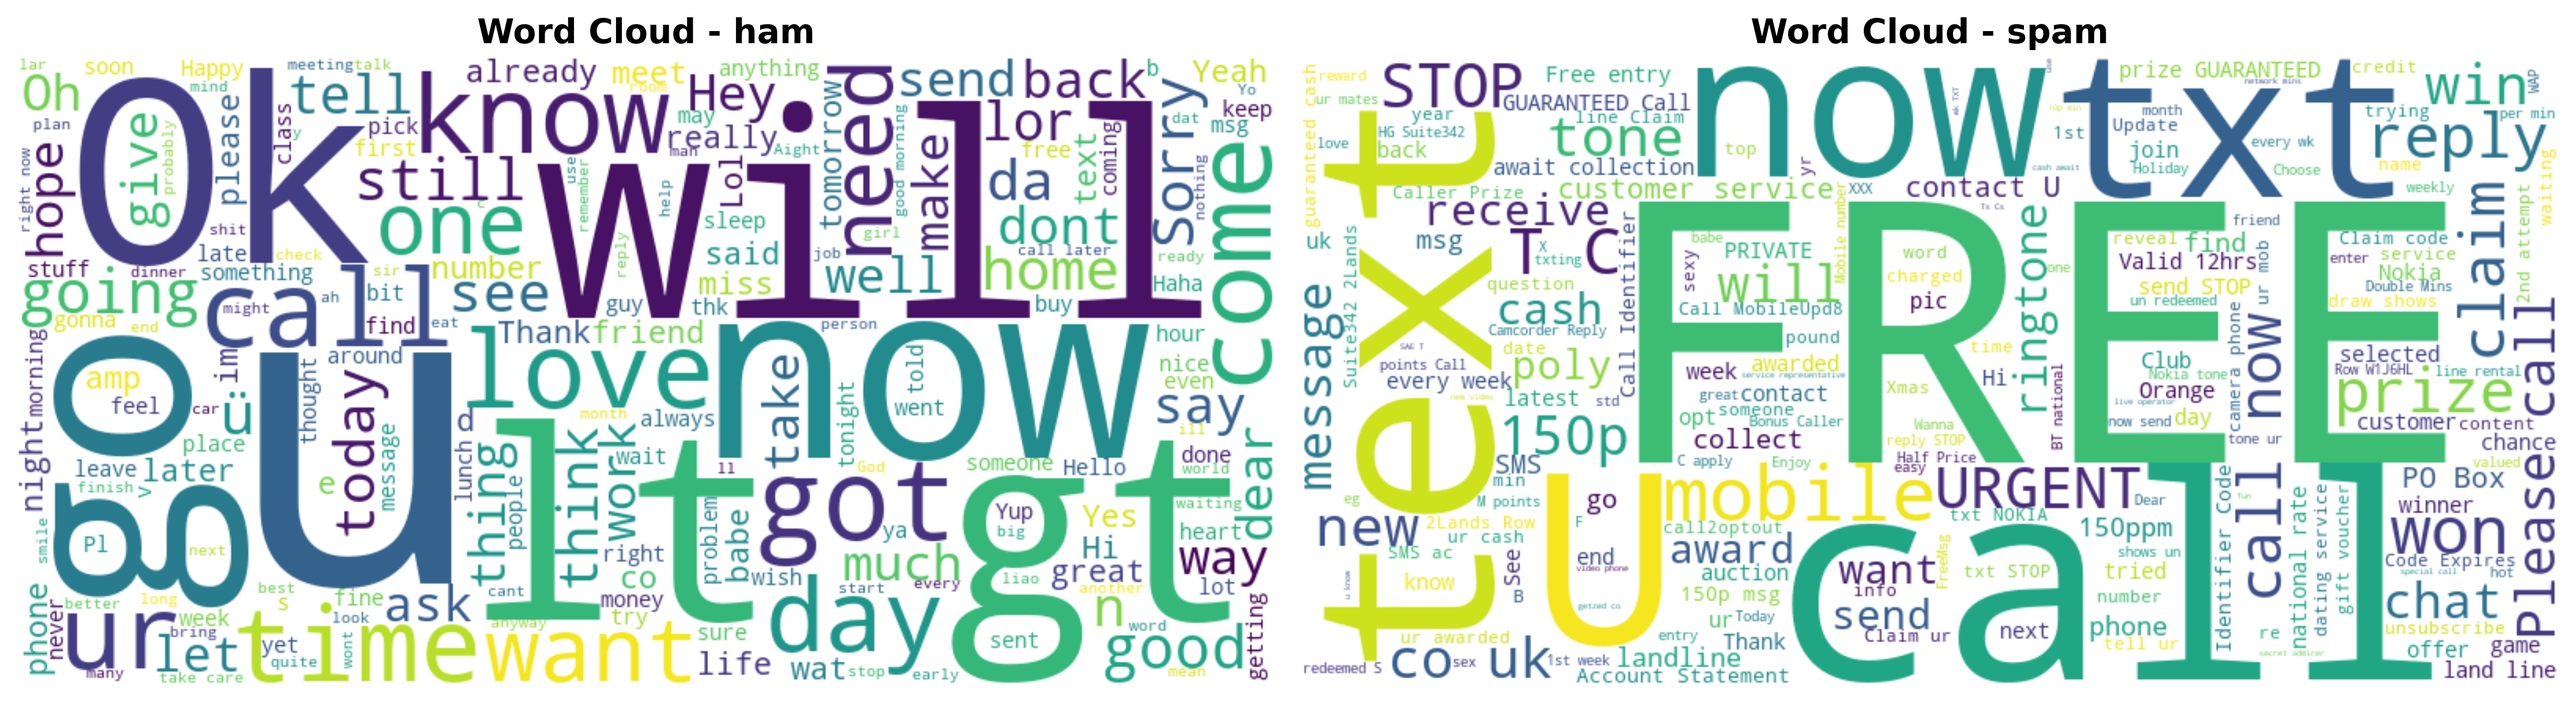
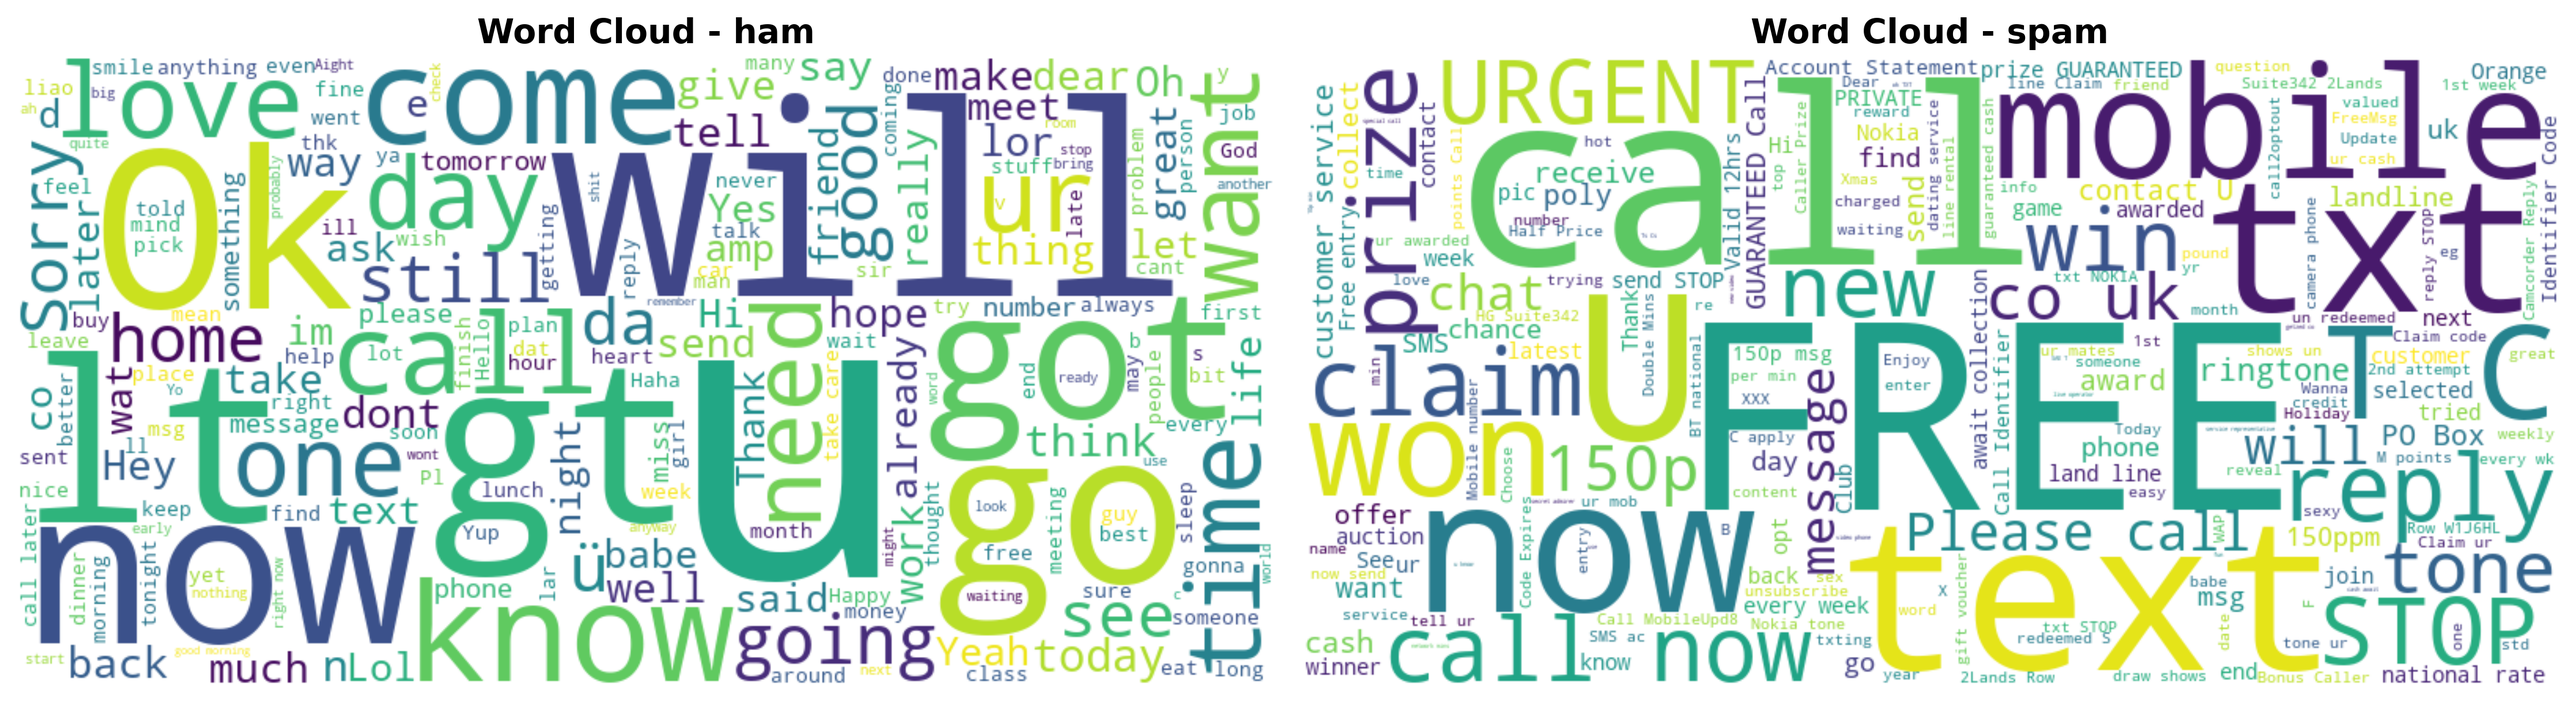
updated inconsistency in q2

diff --git a/CodeForQuestion-2/text_classification_system.py b/CodeForQuestion-2/text_classification_system.py
@@ -1776,7 +1776,7 @@ def create_deployment_app():
             "4. Stopword removal",
             "5. Lemmatization",
             "6. TF-IDF vectorization",
-            "7. Bigram features"
+            "7. N-gram features (1-3)"
         ]
         for step in pipeline_steps:
             st.markdown(f"<div class='pipeline-step'>{step}</div>", unsafe_allow_html=True)
